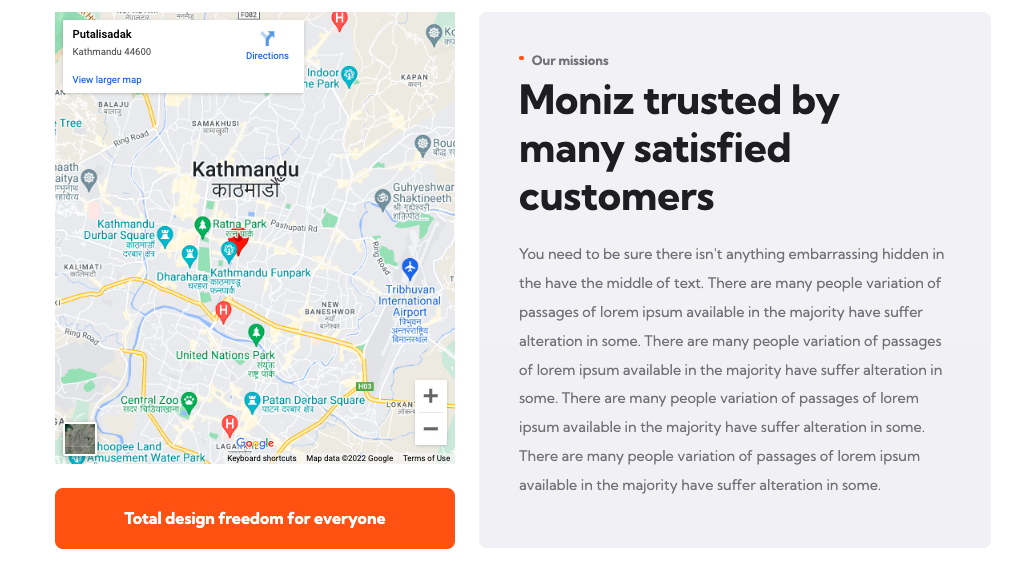
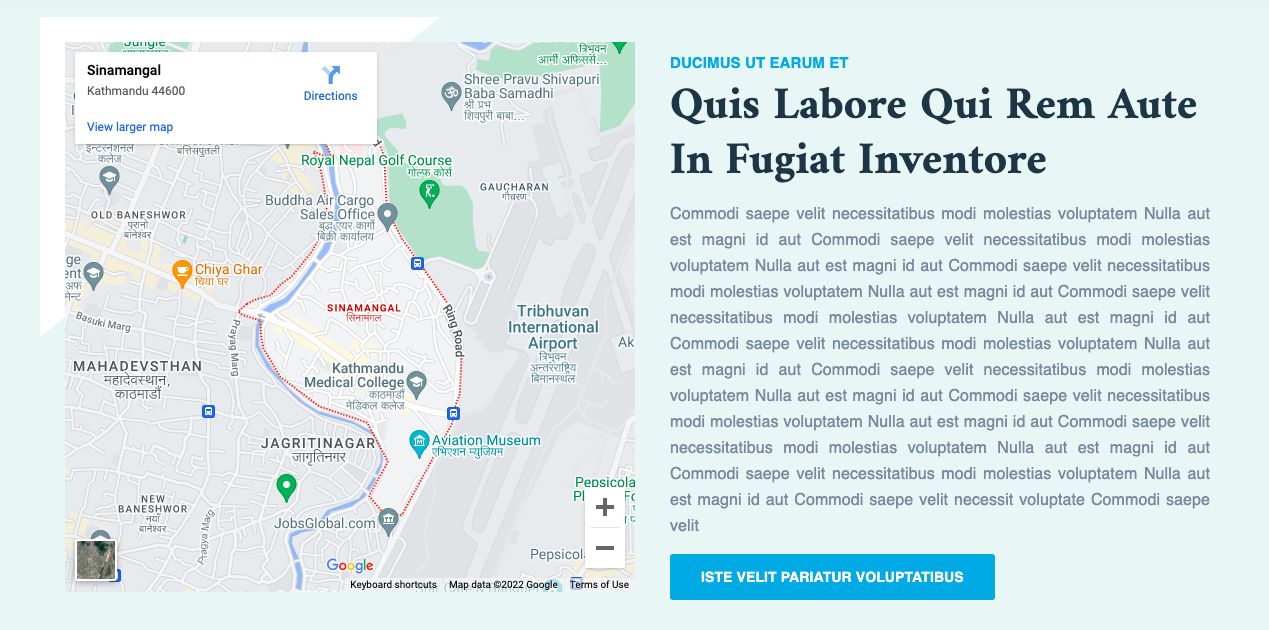
map and descp section updated

Changed region(s): [[0.0312, 0.0, 0.9669, 0.9912]]

diff --git a/resources/views/frontend/pages/dynamic_page.blade.php b/resources/views/frontend/pages/dynamic_page.blade.php
@@ -2,7 +2,11 @@
 @section('title') {{ucwords(@$page_detail->name)}} @endsection
 @section('css')
     <style>
-
+        #map {
+            display: block;
+            height: 550px;
+            width: 190%;
+        }
     .theme-btn.style-three, a.theme-btn.style-three.faq-button {
         color: #293043 !important;
         background: transparent;
@@ -281,73 +285,66 @@
                 @endif
 
                 @if($value == "video_section")
-
-
                     <!--grid-section-->
-                        <section class="ttm-row grid-section clearfix">
-                            <div class="container">
-                                <!-- row -->
-                                <div class="section-title title-style-center_text">
-                                    <div class="title-header">
-                                        <h3>Powermind special showcase</h3>
-                                        <h2 class="title">Our Video Gallery</h2>
-                                    </div>
+                    <section class="ttm-row grid-section clearfix">
+                        <div class="container">
+                            <!-- row -->
+                            <div class="section-title title-style-center_text">
+                                <div class="title-header">
+                                    <h3>Powermind special showcase</h3>
+                                    <h2 class="title">Our Video Gallery</h2>
                                 </div>
-                                <div class="row row-equal-height">
-                                    @foreach(@$video_section_elements as $video_element)
-                                        @if(@$video_element->heading == "youtube")
-                                            @if(str_contains(@$video_element->description,'youtube'))
-                                                <?php
-                                                $thumbnail=get_youtube_thumbnail($video_element->description);
-                                                ?>
-                                            @else
-                                                <?php
-                                                $thumbnail=get_vimeo_thumbnail($video_element->description);
-                                                ?>
-                                            @endif
-                                        @else
-                                            @if(str_contains(@$video_element->description,'youtube'))
-                                                <?php
-                                                $thumbnail=get_youtube_thumbnail($video_element->description);
-                                                ?>
-                                            @else
-                                                <?php
-                                                $thumbnail=get_vimeo_thumbnail($video_element->description);
-                                                ?>
-                                            @endif
-                                        @endif
-                                        <div class="col-lg-4 col-md-6 col-sm-12">
-                                        <!--featured-icon-box-->
-                                        <div class="featured-imagebox featured-imagebox-portfolio style2">
-                                            <!-- ttm-box-view-overlay -->
-                                            <div class="ttm-box-view-overlay">
-                                                <!-- featured-thumbnail -->
-                                                <div class="featured-thumbnail">
-                                                    <a href="#" tabindex="0"><img class="img-fluid" src="{{@$thumbnail}}" style="    height: 208px;" alt="image"></a>
-                                                </div><!-- featured-thumbnail end-->
-                                                <div class="featured-content">
-
-                                                    <div class="featured-iconbox ttm-media-link">
-                                                        <a href="{{@$video_element->description}}" target="_self" class="ttm_prettyphoto ttm_image">
-                                                    <span class="ttm-icon ttm-icon_element-color-white ttm-textcolor-white  ttm-icon_element-style-rounded">
-                                                         <i class="fa fa-play"></i>
-                                                    </span>
-                                                        </a>
-                                                    </div>
-                                                </div>
-                                            </div><!-- ttm-box-view-overlay end-->
-                                        </div><!-- featured-icon-box end-->
-                                    </div>
-                                    @endforeach
-                                </div><!-- row end -->
                             </div>
-                        </section>
-                        <!--grid-section end-->
+                            <div class="row row-equal-height">
+                                @foreach(@$video_section_elements as $video_element)
+                                    @if(@$video_element->heading == "youtube")
+                                        @if(str_contains(@$video_element->description,'youtube'))
+                                            <?php
+                                            $thumbnail=get_youtube_thumbnail($video_element->description);
+                                            ?>
+                                        @else
+                                            <?php
+                                            $thumbnail=get_vimeo_thumbnail($video_element->description);
+                                            ?>
+                                        @endif
+                                    @else
+                                        @if(str_contains(@$video_element->description,'youtube'))
+                                            <?php
+                                            $thumbnail=get_youtube_thumbnail($video_element->description);
+                                            ?>
+                                        @else
+                                            <?php
+                                            $thumbnail=get_vimeo_thumbnail($video_element->description);
+                                            ?>
+                                        @endif
+                                    @endif
+                                    <div class="col-lg-4 col-md-6 col-sm-12">
+                                    <!--featured-icon-box-->
+                                    <div class="featured-imagebox featured-imagebox-portfolio style2">
+                                        <!-- ttm-box-view-overlay -->
+                                        <div class="ttm-box-view-overlay">
+                                            <!-- featured-thumbnail -->
+                                            <div class="featured-thumbnail">
+                                                <a href="#" tabindex="0"><img class="img-fluid" src="{{@$thumbnail}}" style="    height: 208px;" alt="image"></a>
+                                            </div><!-- featured-thumbnail end-->
+                                            <div class="featured-content">
 
-
-
-
-
+                                                <div class="featured-iconbox ttm-media-link">
+                                                    <a href="{{@$video_element->description}}" target="_self" class="ttm_prettyphoto ttm_image">
+                                                <span class="ttm-icon ttm-icon_element-color-white ttm-textcolor-white  ttm-icon_element-style-rounded">
+                                                     <i class="fa fa-play"></i>
+                                                </span>
+                                                    </a>
+                                                </div>
+                                            </div>
+                                        </div><!-- ttm-box-view-overlay end-->
+                                    </div><!-- featured-icon-box end-->
+                                </div>
+                                @endforeach
+                            </div><!-- row end -->
+                        </div>
+                    </section>
+                    <!--grid-section end-->
                 @endif
 
                 @if($value == "background_image_section")
@@ -635,53 +632,53 @@
                 @endif
 
                 @if($value == "map_and_description")
-                  <!--- Map & Description--->
-                  <section class="about-two">
-                    <div class="container">
-                      <div class="row">
-                        <div class="col-md-12 col-lg-5">
-                          <div class="about-two__image">
-                            @if(@$map_descp->list_description)
-                              {!! @$map_descp->list_description !!}
-                              @elseif(@$setting_data->google_map)
-                                <iframe frameborder="0" width="100%" height="660px"scrolling="no" marginheight="0" marginwidth="0" src="{{@$setting_data->google_map}}"
-                                          title="%3$s" aria-label="%3$s"></iframe>
-                            @endif
-                            @if(@$map_descp->button)
-                                <a href="{{@$map_descp->button_link}}" class="thm-btn map-button"><span>{{ucwords(@$map_descp->button)}}</span></a>
-                              @endif
-                          </div><!-- /.about-two__image -->
-                        </div><!-- /.col-md-12 -->
-                        <div class="col-md-12 col-lg-7">
-                          <div class="about-two__content" style="padding: 50px;">
-                            <div class="section-title text-left">
-                                @if(@$map_descp->subheading)
-                                  <span class="section-title__tagline">{{ucfirst(@$map_descp->subheading)}}</span>
 
-                                  @endif
-                                  @if(@$map_descp->heading)
-                                  <h2 class="section-title__title">
-                                      <span><?php
-                                          $split = explode(" ", ucwords(@$map_descp->heading));?> {{preg_replace('/\W\w+\s*(\W*)$/', '$1', ucwords(@$map_descp->heading))."\n"}}</span>
-                                      <span class="text-last">{{$split[count($split)-1]}}</span>
+                        <section class="ttm-row skill-section ttm-bgcolor-grey res-991-m-0 border-rad_6 clearfix">
+                            <div class="container">
+                                <div class="row">
+                                    <div class="col-lg-6">
+                                        <div class="d-inline-block">
+                                            <!-- ttm_single_image-wrapper -->
+                                            <div class="ttm_single_image-wrapper z-index-1 position-relative image-top-left-angle">
+                                                <div id="google_map" class="google_map">
+                                                    <div class="map_container clearfix">
+                                                        <div id="map">
+                                                            <iframe src="{{@$setting_data->google_map}}" width="100%" height="100%" aria-hidden="false" tabindex="0"></iframe>
+                                                        </div>
 
-                                  </h2>
-                                  @endif
+                                                    </div>
+                                                </div>
+                                            </div>
+                                        </div>
+                                    </div>
+                                    <div class="col-lg-6">
+                                        <div class="padding_left30 padding_top40 res-991-padding_left0">
+                                            <!-- section-title -->
+                                            <div class="section-title">
+                                                <div class="title-header">
+                                                    @if(@$map_descp->subheading)
+                                                    <h3>{{@$map_descp->subheading}}</h3>
+                                                    @endif
+                                                    <h2 class="title">{{@$map_descp->heading}}</h2>
+                                                </div>
+                                                <div class="title-desc justified">
+                                                    {!! @$map_descp->description !!}
+                                                </div>
+                                                @if(@$map_descp->button_link)
+
+                                                    <div class="d-inline-block ">
+                                                        <a class="ttm-btn ttm-btn-size-md ttm-btn-shape-rounded ttm-btn-style-fill ttm-btn-color-skincolor margin_right20 margin_top15" href="{{@$map_descp->button_link}}">
+                                                            {{ (@$map_descp->button !== null) ? @$map_descp->button:"Explore more" }}
+                                                        </a>
+                                                    </div>
+                                                @endif
+                                            </div><!-- section-title end -->
+
+                                        </div>
+                                    </div>
+                                </div>
                             </div>
-                            <div class="about-two__box">
-                              <!-- /.about-two__box__icon -->
-                              <div class="about-two__box__content">
-                               {{ ucfirst(@$map_descp->description) }}
-                            </div><!-- /.about-two__box__content -->
-                            </div><!-- /.about-two__box -->
-                            <!-- /.about-two__summery -->
-                          </div><!-- /.about-two__content -->
-                        </div><!-- /.col-md-12 -->
-                      </div><!-- /.row -->
-                    </div><!-- /.container -->
-                  </section>
-
-
+                        </section>
 
                 @endif
 

diff --git a/resources/views/backend/pages/section_elements/create.blade.php b/resources/views/backend/pages/section_elements/create.blade.php
@@ -525,7 +525,7 @@
 
                                                      <div class="form-group mb-3">
                                                          <label>Description <span class="text-muted text-danger">*</span></label>
-                                                         <textarea class="form-control" maxlength="560" rows="6" name="description" required>{{@$map_descp->description}}</textarea>
+                                                         <textarea class="form-control" maxlength="850" rows="6" name="description" required>{{@$map_descp->description}}</textarea>
                                                          <div class="invalid-feedback">
                                                              Please enter the description.
                                                          </div>
@@ -545,18 +545,6 @@
                                                              Please enter the button link.
                                                          </div>
                                                      </div>
-
-
-                                                     <div class="form-group mb-3">
-                                                         <label>Generated Map Code </label>
-                                                         <textarea class="form-control" rows="6" name="list_description" required>{{@$map_descp->list_description}}</textarea>
-                                                         <div class="invalid-feedback">
-                                                             Please enter the map code.
-                                                         </div>
-                                                         <span class="text-muted text-danger">*Use the following link to generate map code: <a target="_blank" href="https://google-map-generator.com/#select">Map Generator</a></span>
-                                                         <span class="text-muted text-danger">*recommended map height: 500 x 560px</span>
-                                                     </div>
-
                                                  </div>
                                              </div>
                                          </div>

diff --git a/app/Http/Controllers/SectionElementController.php b/app/Http/Controllers/SectionElementController.php
@@ -262,7 +262,6 @@ class SectionElementController extends Controller
                 'subheading'             => $request->input('subheading'),
                 'page_section_id'        => $section_id,
                 'description'            => $request->input('description'),
-                'list_description'       => $request->input('list_description'),
                 'button'                 => $request->input('button'),
                 'button_link'            => $request->input('button_link'),
                 'created_by'             => Auth::user()->id,
@@ -565,7 +564,6 @@ class SectionElementController extends Controller
             $map->subheading          = $request->input('subheading');
             $map->page_section_id     = $section_id;
             $map->description         = $request->input('description');
-            $map->list_description    = $request->input('list_description');
             $map->button              = $request->input('button');
             $map->button_link         = $request->input('button_link');
             $map->updated_by          = Auth::user()->id;
